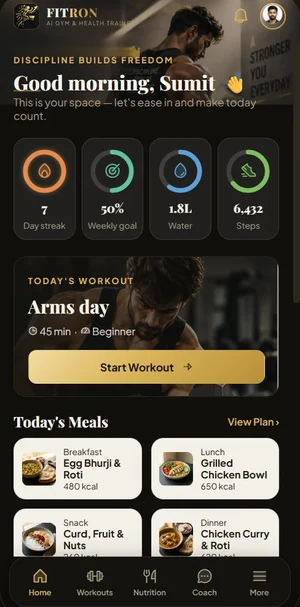
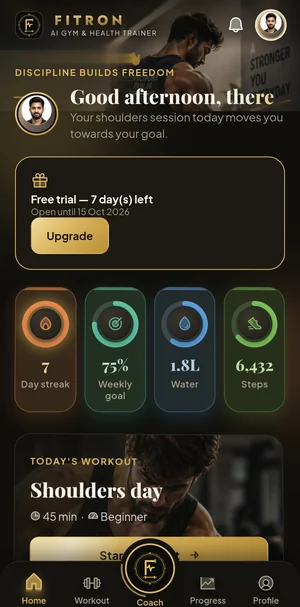
Use the latest AI Trainer home screen in the landing page hero phone
Replace phone-home.webp (and its 300px variant) with the current app home
screen: free trial card, streak/goal/water/steps rings and today's workout.
Android status and gesture bars are cropped out to keep the 488x987 frame.

Claude-Session: https://claude.ai/code/session_01F2B6v3XYVdA1EYxRfikANC

diff --git a/public/site/index.html b/public/site/index.html
@@ -1027,7 +1027,7 @@ footer p{color:var(--muted);font-size:.9rem;max-width:38ch;margin-top:14px}
       </a>
       <a class="duo-phone" href="/ai-personal-trainer" data-track="start_trial_click" data-track-from="hero_phone" aria-label="AI Trainer: open the product home page">
         <span class="phone-body"><span class="phone-notch" aria-hidden="true"></span><span class="phone-screen">
-          <img src="/site/phone-home.webp" srcset="/site/phone-home-300.webp 300w, /site/phone-home.webp 488w" sizes="(max-width: 900px) 30vw, 150px" width="488" height="987" alt="FITRON AI Trainer app on a phone: day streak, weekly goal, today's workout and today's meals" fetchpriority="high" decoding="async">
+          <img src="/site/phone-home.webp" srcset="/site/phone-home-300.webp 300w, /site/phone-home.webp 488w" sizes="(max-width: 900px) 30vw, 150px" width="488" height="987" alt="FITRON AI Trainer app on a phone: free trial, day streak, weekly goal, water, steps and today's workout" fetchpriority="high" decoding="async">
         </span></span>
         <span class="duo-cap">AI Trainer <i>for members</i> <svg class="icon"><use href="#i-arrow"></use></svg></span>
       </a>

diff --git a/scripts/site/hero.html b/scripts/site/hero.html
@@ -20,7 +20,7 @@
       </a>
       <a class="duo-phone" href="/ai-personal-trainer" data-track="start_trial_click" data-track-from="hero_phone" aria-label="AI Trainer: open the product home page">
         <span class="phone-body"><span class="phone-notch" aria-hidden="true"></span><span class="phone-screen">
-          <img src="/site/phone-home.webp" srcset="/site/phone-home-300.webp 300w, /site/phone-home.webp 488w" sizes="(max-width: 900px) 30vw, 150px" width="488" height="987" alt="FITRON AI Trainer app on a phone: day streak, weekly goal, today's workout and today's meals" fetchpriority="high" decoding="async">
+          <img src="/site/phone-home.webp" srcset="/site/phone-home-300.webp 300w, /site/phone-home.webp 488w" sizes="(max-width: 900px) 30vw, 150px" width="488" height="987" alt="FITRON AI Trainer app on a phone: free trial, day streak, weekly goal, water, steps and today's workout" fetchpriority="high" decoding="async">
         </span></span>
         <span class="duo-cap">AI Trainer <i>for members</i> <svg class="icon"><use href="#i-arrow"></use></svg></span>
       </a>
